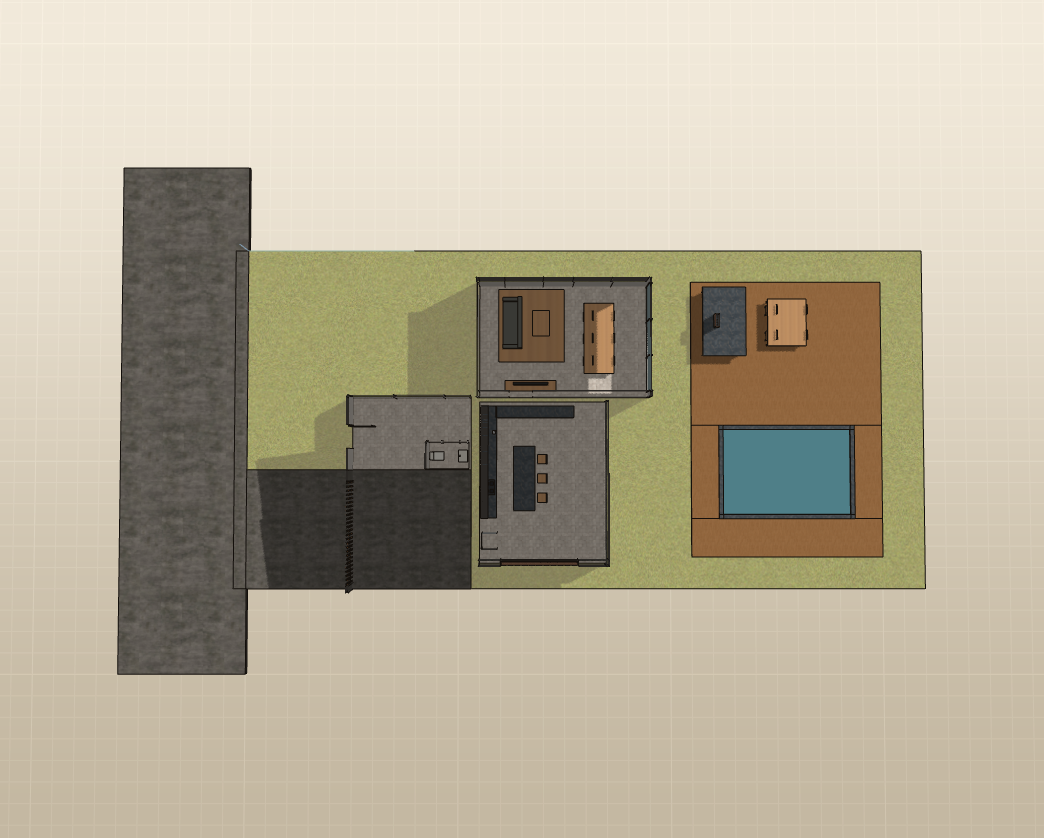
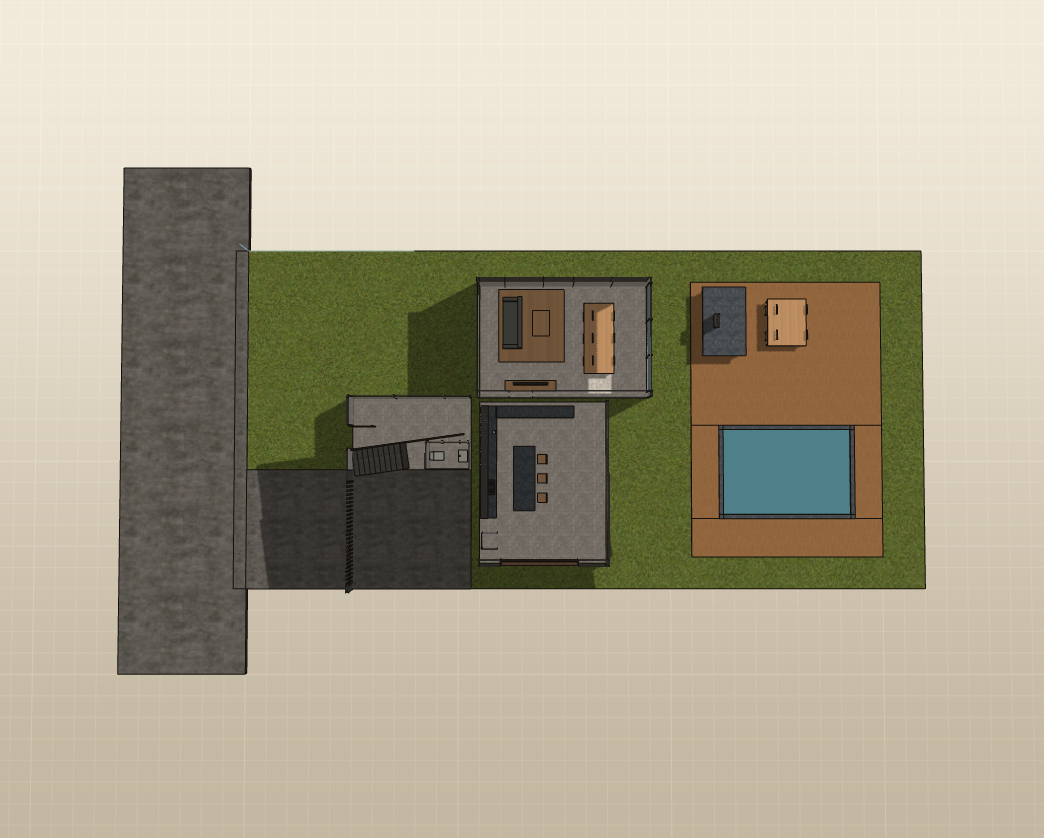
Casa Zen: volume esticado, CLOSET na master — e a escada que não existia
Pedido: "estica o volume, 1 quarto tem que ter closet ainda". Fazendo isso, achei
um defeito meu MUITO pior antes do Guilherme: a casa tinha o POÇO da escada, os
guarda-corpos em volta dele — e NENHUMA ESCADA. Três suítes no pavimento
superior sem nada que levasse até lá.

E o validador tinha deixado passar, porque eu marquei "acesso" nas suítes
querendo dizer PORTA DO QUARTO. Porta de quarto não leva ninguém ao pavimento.
Agora `confere()` exige: se há cômodo acima do térreo, tem que haver escada
declarada — e a MUTAÇÃO prova que não é decoração (troquei ESCADA_OK pra False
e ele abortou: "há cômodo no pavimento superior e NENHUMA escada — como a
pessoa sobe?"). Escada real: 20 degraus, espelho 17,2 · piso 27 · largura 1,20,
com guarda-corpo, subindo do hall ao superior.

O ESTICÃO, com as folgas CALCULADAS (a rotação de 8° joga o canto NW pra oeste;
esticar só em Y deixava 7 cm do social — estreitei 25 cm no oeste pra compensar):
  8,45–14,80 × 5,60–18,60  (6,35 × 13,00, era 6,60 × 11,40)
  NW=(7,32; 18,09) folga do social +0,32 · divisa +0,58 · recuo frontal +0,22

O GANHO REAL veio de mudar a PLANTA, não só de esticar: o banheiro saiu da faixa
própria (que espremia o quarto a 2,98 m de largura) e foi pro CANTO da célula da
suíte. O quarto passou a usar os 4,65 m inteiros no trecho livre.
  master 10,7 → 18,8 m² · suíte 2 10,5 → 15,9 · suíte 3 9,8 → 14,3
  CLOSET da master: 7,9 m², armários nos dois lados, passagem franca
[…]

Changed region(s): [[0.2146, 0.2792, 0.8889, 0.7136]]

diff --git a/scripts/entregas/build_casa_zen.py b/scripts/entregas/build_casa_zen.py
@@ -392,79 +392,117 @@ for cx in (9.90, 10.80, 11.70):
     cadeira(cx, 13.95, giroY=False)
 
 # ========================================== SUPERIOR: girado 8°, 3 SUÍTES REAIS
-# Tudo em coordenadas LOCAIS (pré-giro) e girado no fim, com pivô único.
-# A cozinha abaixo já tem laje ORTOGONAL própria — o volume girado passa por
-# cima como gesto, não como estrutura. Foi a inversão dessa dependência que
-# gerou os 4 buracos da casa anterior.
-SX0, SX1, SY0, SY1 = 8.2, 14.8, 5.6, 17.0
-SZ0, SZ1 = 3.44, 6.30                 # piso do superior · teto
-ZP, ZT = SZ0 + 0.06, SZ1              # piso acabado · teto
+# VOLUME ESTICADO (pedido do Guilherme: quartos de 10 m² são apertados).
+# 11,40 -> 13,00 m de comprimento. As folgas foram CALCULADAS, não chutadas —
+# a rotação de 8° joga o canto NW pra oeste, e esticar só em Y levava o volume
+# a 7 cm do social. Estreitei 25 cm no oeste pra compensar:
+#   NW=(7.32, 18.09) folga do social  +0.32 m
+#   leste  x máx 15.42  folga da divisa +0.58 m
+#   sul    y mín  5.22  folga do recuo  +0.22 m
+SX0, SX1, SY0, SY1 = 8.45, 14.8, 5.6, 18.6
+SZ0, SZ1 = 3.44, 6.30
+ZP, ZT = SZ0 + 0.06, SZ1
+# A PLANTA EM FAIXAS (local, oeste->leste):
+#   8.45-8.70  parede oeste
+#   8.70-10.00 CORREDOR + poço da escada (1,30 — a escada precisa de largura)
+#   10.00-11.45 banheiros (1,45)
+#   11.45-11.57 divisória
+#   11.57-14.55 QUARTOS (2,98 de largura livre)
+COR0, COR1 = 8.70, 9.90        # corredor 1,20 (com o poço da escada)
+QX0, QX1 = 9.90, 14.55         # a CÉLULA da suíte: 4,65 de largura livre
+BW = 2.00                      # o banheiro ocupa só um CANTO da célula
+BD = 2.20
 _s = len(M)
-# laje + piso do superior (com o vão da escada recortado)
-VX0, VX1, VY0, VY1 = 8.2, 10.5, 7.00, 11.2      # o vão da escada
-for (a, b, c, d) in ((SX0, SX1, SY0, VY0), (SX0, SX1, VY1, SY1),
-                     (VX1, SX1, VY0, VY1)):
-    box(a, b, c, d, SZ0 - 0.24, SZ0, tex=CONC, scale=2.2)
-    box(a, b, c, d, SZ0, ZP, tex=PISOSUP, scale=1.2)
-# guarda-corpo do vão (leste e sul; o norte é por onde a escada chega)
+VX0, VX1, VY0, VY1 = COR0, COR1, 6.20, 10.10
+for (a, b, c, d_) in ((SX0, SX1, SY0, VY0), (SX0, SX1, VY1, SY1),
+                      (VX1, SX1, VY0, VY1), (SX0, VX0, VY0, VY1)):
+    if b > a and d_ > c:
+        box(a, b, c, d_, SZ0 - 0.24, SZ0, tex=CONC, scale=2.2)
+        box(a, b, c, d_, SZ0, ZP, tex=PISOSUP, scale=1.2)
 box(VX1, VX1 + 0.06, VY0, VY1, ZP, ZP + 1.00, color=VIDRO)
+box(VX0 - 0.06, VX0, VY0, VY1, ZP, ZP + 1.00, color=VIDRO)
 box(VX0, VX1, VY0 - 0.06, VY0, ZP, ZP + 1.00, color=VIDRO)
-# envoltória: oeste cega, leste pedra (divisa), norte com as 3 janelas
 box(SX0, SX0 + 0.25, SY0, SY1, ZP, ZT, tex=REBOCO, scale=3)
 box(SX1 - 0.25, SX1, SY0, SY1, ZP, ZT, tex=PEDRA, scale=1.4)
 parede_x(SX0, SX1, SY1 - 0.25, SY1, ZP, ZT,
-         vaos=[(jx, jx + 1.6, ZP + 0.95, ZT - 0.45)
-               for jx in (8.6, 10.7, 12.8)], tex=REBOCO, scale=3)
-# fachada sul: porta da varanda da master
-RX0, RX1 = 11.6, 14.55
+         vaos=[(jx, jx + 1.7, ZP + 0.95, ZT - 0.45)
+               for jx in (10.2, 12.6)], tex=REBOCO, scale=3)
+RX0, RX1 = 11.40, 14.55
 parede_x(SX0, SX1, SY0, SY0 + 0.25, ZP, ZT,
          vaos=[(RX0, RX1, ZP, ZP + 2.30)], tex=REBOCO, scale=3, esq=False)
 box(RX0 + 1.5, RX1, SY0 + 0.10, SY0 + 0.16, ZP, ZP + 2.26, color=VIDRO)
-# A VARANDA: piso SOB o parapeito (o erro da casa anterior era o sinal trocado)
 box(RX0, RX1, SY0 - 1.96, SY0, SZ0 - 0.24, SZ0, tex=CONC, scale=2.2)
 box(RX0, RX1, SY0 - 1.96, SY0, SZ0, ZP, tex=PISOSUP, scale=1.2)
 box(RX0, RX1, SY0 - 1.96, SY0 - 1.90, ZP, ZP + 1.00, color=VIDRO)
 box(RX0 - 0.06, RX0, SY0 - 1.96, SY0, ZP, ZP + 1.00, color=VIDRO)
 box(RX1, RX1 + 0.06, SY0 - 1.96, SY0, ZP, ZP + 1.00, color=VIDRO)
+# parede corredor|suítes, com as 3 portas
+parede_y(COR1, COR1 + 0.12, SY0, SY1, ZP, ZT,
+         vaos=[(6.60, 7.40, ZP, ZP + 2.10), (12.00, 12.80, ZP, ZP + 2.10),
+               (15.70, 16.50, ZP, ZP + 2.10)], tex=REBOCO, scale=3, esq=False)
 
-# --- corredor + as 3 suítes ---
-COR1, DIV = 11.62, 0.12
-parede_y(COR1, COR1 + DIV, SY0, SY1, ZP, ZT,
-         vaos=[(7.10, 8.00, ZP, ZP + 2.10), (11.60, 12.50, ZP, ZP + 2.10),
-               (15.10, 16.00, ZP, ZP + 2.10)], tex=REBOCO, scale=3, esq=False)
-for dy in (9.40, 13.20):
-    box(COR1 + DIV, SX1 - 0.25, dy, dy + DIV, ZP, ZT, tex=REBOCO, scale=3)
-
-SUITES = [("master", SY0 + 0.25, 9.40, 11.6, 14.55),
-          ("suite 2", 9.52, 13.20, 11.6, 14.55),
-          ("suite 3", 13.32, SY1 - 0.25, 11.6, 14.55)]
-for (nome, ya, yb, xa, xb) in SUITES:
-    comodo(nome, xa, ya, xb, yb, ZP, ZT,
+# --- as 3 SUÍTES: o banheiro ocupa um CANTO da célula, não uma faixa própria.
+# Era a faixa que espremia o quarto a 2,98 m de largura; agora o quarto usa os
+# 4,65 inteiros no trecho livre. A master ainda ganha o CLOSET.
+SUITES = [("master", 5.85, 9.90, 11.60), ("suite 2", 11.72, 15.15, None),
+          ("suite 3", 15.27, 18.35, None)]
+for (nome, ya, yq, ycl) in SUITES:
+    comodo(nome, QX0, ya, QX1, yq, ZP, ZT,
            ["piso", "teto", "acesso", "abertura", "cama", "armario"])
     poe(nome, "piso", "teto", "acesso", "abertura")
-    ymeio = (ya + yb) / 2
-    cama(13.30, ymeio - 1.0, z=ZP);       poe(nome, "cama")
-    armario(11.80, 12.80, ya + 0.15, ya + 0.75, z=ZP, h=2.30)
+    cama(12.90, yq - 2.45, z=ZP);                    poe(nome, "cama")
+    armario(13.30, 14.45, ya + 0.10, ya + 0.70, z=ZP, h=2.30)
     poe(nome, "armario")
-
-# --- os 3 BANHEIROS (a oeste do corredor, com louça de verdade) ---
-BANHOS = [("banho master", SY0 + 0.30, 8.30), ("banho 2", 9.60, 11.60),
-          ("banho 3", 13.40, 15.40)]
-for (nome, ya, yb) in BANHOS:
-    xa, xb = 8.45, 11.62
-    comodo(nome, xa, ya, xb, yb, ZP, ZP + 2.60,
+    # o BANHEIRO no canto noroeste da célula
+    bx0, bx1, by0, by1 = QX0, QX0 + BW, yq - BD, yq
+    nb = "banho " + ("master" if ycl else nome.split()[-1])
+    comodo(nb, bx0, by0, bx1, by1, ZP, ZP + 2.60,
            ["piso", "teto", "acesso", "vaso", "cuba", "box"])
-    box(xa, xb, ya, yb, SZ0, ZP, tex=PISO, scale=0.7)
-    poe(nome, "piso")
-    box(xa, xb, ya, yb, ZP + 2.60, ZP + 2.72, tex=CONC, scale=2)
-    poe(nome, "teto")
-    poe(nome, "acesso")                       # porta na parede do corredor
-    box(xa, xb, yb - 0.12, yb, ZP, ZP + 2.60, tex=REBOCO, scale=3)
-    vaso(9.10, ya + 0.25, z=ZP);              poe(nome, "vaso")
-    cuba(10.60, ya + 0.20, z=ZP + 0.82);      poe(nome, "cuba")
-    box_banho(8.55, 9.95, ya + 1.10, yb - 0.20, z=ZP, h=1.90)
-    poe(nome, "box")
+    box(bx0, bx1, by0, by1, SZ0, ZP, tex=PISO, scale=0.7)
+    poe(nb, "piso")
+    box(bx0, bx1, by0, by1, ZP + 2.60, ZP + 2.72, tex=CONC, scale=2)
+    poe(nb, "teto")
+    parede_y(bx1, bx1 + 0.12, by0, by1, ZP, ZP + 2.60,
+             vaos=[(by0 + 0.30, by0 + 1.10, ZP, ZP + 2.10)],
+             tex=REBOCO, scale=3, esq=False)
+    poe(nb, "acesso")
+    box(bx0, bx1 + 0.12, by0 - 0.12, by0, ZP, ZP + 2.60, tex=REBOCO, scale=3)
+    vaso(bx0 + 0.45, by0 + 0.25, z=ZP);        poe(nb, "vaso")
+    cuba(bx1 - 0.40, by0 + 0.20, z=ZP + 0.82); poe(nb, "cuba")
+    box_banho(bx0 + 0.08, bx0 + 1.10, by1 - 1.00, by1 - 0.10, z=ZP, h=1.90)
+    poe(nb, "box")
+    if ycl:
+        comodo("closet", QX0, yq, QX1, ycl, ZP, ZP + 2.50,
+               ["piso", "teto", "acesso", "armario"])
+        box(QX0, QX1, yq, ycl, SZ0, ZP, tex=PISOSUP, scale=1.2)
+        poe("closet", "piso")
+        box(QX0, QX1, yq, ycl, ZP + 2.50, ZP + 2.62, tex=CONC, scale=2)
+        poe("closet", "teto")
+        box(QX0, QX1, yq - 0.12, yq, ZP + 2.10, ZT, tex=REBOCO, scale=3)
+        poe("closet", "acesso")
+        armario(QX0 + 0.05, QX1 - 0.05, yq + 0.08, yq + 0.68, z=ZP, h=2.30)
+        armario(QX0 + 0.05, QX1 - 0.05, ycl - 0.68, ycl - 0.08, z=ZP, h=2.30)
+        poe("closet", "armario")
 girados(_s)
+
+# ================== A ESCADA — a casa anterior tinha o POÇO e nenhuma escada.
+# Meu validador deixou passar porque eu confundi "porta do quarto" com "acesso
+# ao pavimento": marquei acesso nas suítes e ninguém perguntou como se CHEGA
+# nelas. Agora `confere()` exige uma escada declarada.
+# Reta, no eixo do poço, subindo do hall (z=0,06) ao piso do superior (3,50).
+# 20 degraus de 17,2 cm; piso de 27 cm; largura 1,20.
+ESC_X0, ESC_X1 = 8.80, 10.00        # dentro do corredor (1,20 de largura)
+ESC_Y0 = 5.30
+NDEG, ESP, PIS = 20, 0.172, 0.27
+_e = len(M)
+for i in range(NDEG):
+    yd = ESC_Y0 + i * PIS
+    box(ESC_X0, ESC_X1, yd, yd + PIS + 0.02, 0.06 + i * ESP,
+        0.06 + (i + 1) * ESP, tex=CONC, scale=1.2)
+box(ESC_X0 - 0.06, ESC_X0, ESC_Y0, ESC_Y0 + NDEG * PIS, 0.90, 1.95,
+    color=VIDRO)                                    # guarda-corpo da escada
+girados(_e)
+ESCADA_OK = True
 
 # ================================================================ A COBERTURA
 _c = len(M)
@@ -506,6 +544,13 @@ for cy in (24.7, 26.1):
 # ============================================== O VALIDADOR: aborta cômodo oco
 def confere():
     ruim = []
+    # ACESSO VERTICAL: a 1a versao desta casa tinha o POCO da escada, os
+    # guarda-corpos e NENHUMA escada — e passou, porque eu marquei "acesso" nas
+    # suites querendo dizer "porta do quarto". Porta de quarto nao leva ninguem
+    # ao pavimento. Se ha comodo acima do terreo, tem que haver escada.
+    if any(c["piso"] > 1.5 for c in COMODOS) and not globals().get("ESCADA_OK"):
+        raise SystemExit("ABORTADO: ha comodo no pavimento superior e NENHUMA "
+                         "escada — como a pessoa sobe?")
     for c in COMODOS:
         falta = c["precisa"] - c["tem"]
         if falta: